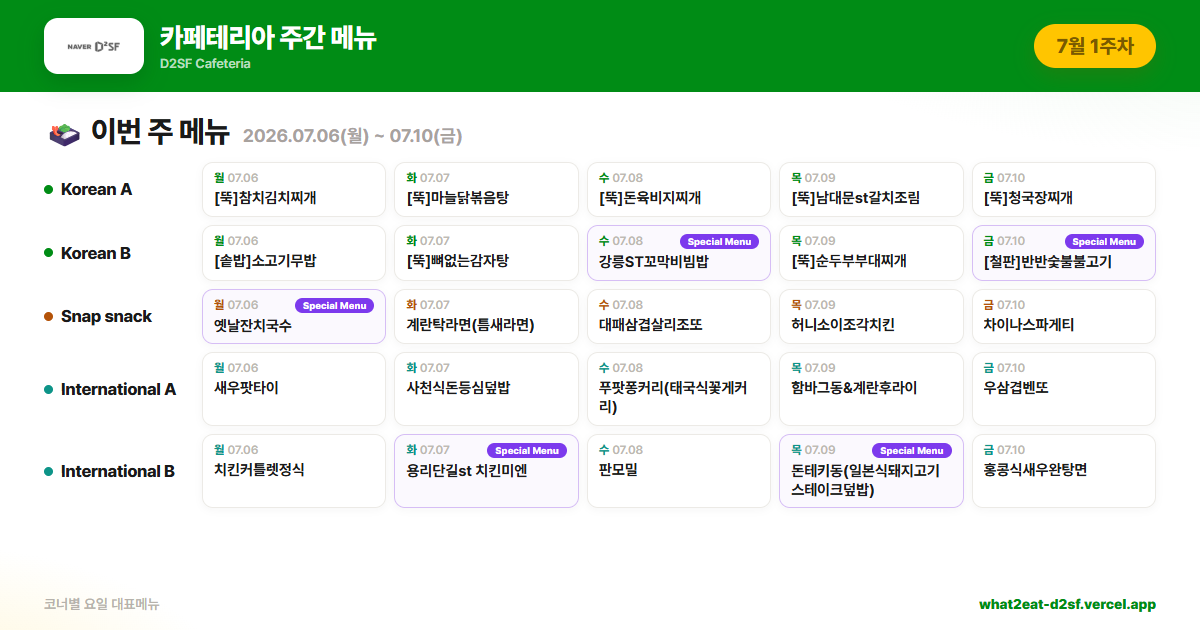
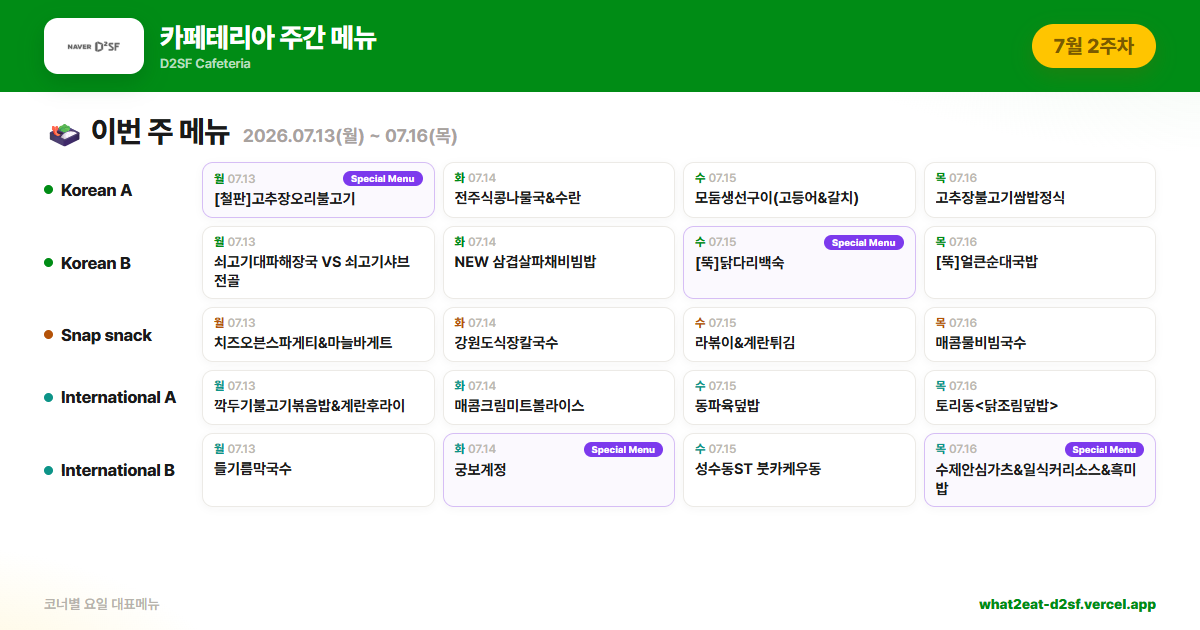
식단표 업데이트: 2026년 7월 2주차 (07.13~07.16, 금 제헌절 휴무)
- menu-2026-w7.js 추가 (화재서초 7-2 기준, 월~목 4일), index.js 등록
- generate-og.mjs: OG 그리드 열 수를 요일수에 맞춰 가변화(4일 대응)
- OG 재생성(단가 스페셜 4칸) + 제목 (7월 2주차), og:image r=8

diff --git a/src/data/menu-2026-w7.js b/src/data/menu-2026-w7.js
@@ -1,0 +1,105 @@
+// ─────────────────────────────────────────────────────────────
+// 카페테리아 주간 식단 — 2026년 7월 2주차 (2026.07.13~07.16)
+// ※ 07.17(금)은 제헌절 관계로 식단 없음(월~목 4일 운영)
+// 출처: 화재서초 게시판 식단표 / Slack D2SF #5_공유해요_지하식당
+// 칼로리(kcal)는 1인분 추정치이며 실제 제공량과 다를 수 있습니다.
+// ─────────────────────────────────────────────────────────────
+
+const S = (meal, day, corner, price, cuisine, items, tag = null, side = false) => ({
+  meal, day, corner, price, cuisine, items, tag, side,
+});
+
+const days = [
+  ["월", "07.13"],
+  ["화", "07.14"],
+  ["수", "07.15"],
+  ["목", "07.16"],
+];
+
+const sets = [
+  // ───────── 조식 ─────────
+  S("조식", "월", "백반", 9400, "한식", [["[뚝]계란물만둣국", 120], ["현미밥", 300], ["돼지고기굴소스볶음", 330], ["고사리볶음", 90], ["상추겉절이", 30], ["깍두기", 20], ["사과주스", 110]]),
+  S("조식", "화", "백반", 9400, "한식", [["[뚝]바지락해장국", 120], ["현미밥", 300], ["닭고기캐슈넛볶음", 320], ["취나물무침", 40], ["무말랭이무침", 50], ["포기김치", 15], ["양상추샐러드", 60]]),
+  S("조식", "수", "백반", 9400, "한식", [["[뚝]오징어찌개", 250], ["현미밥", 300], ["햄구이", 230], ["오이볶음", 60], ["해초채소무침", 40], ["포기김치", 15], ["포도", 60]]),
+  S("조식", "목", "백반", 9400, "한식", [["[뚝]얼큰명란찌개", 120], ["현미밥", 300], ["닭고기단호박조림", 290], ["계란후라이", 110], ["콩나물무침", 40], ["깍두기", 20], ["요거트&견과류", 160]]),
+  S("조식", "월", "라면코너", 7700, "분식", [["라면(진라면)", 500], ["단무지", 20], ["포기김치", 15], ["참치마요말이반줄", 190]]),
+  S("조식", "화", "라면코너", 7700, "분식", [["라면(오징어짬뽕)", 500], ["단무지", 20], ["포기김치", 15], ["우엉계란말이반줄", 180]]),
+  S("조식", "수", "라면코너", 7700, "분식", [["라면(참깨라면)", 500], ["단무지", 20], ["포기김치", 15], ["매콤어묵말이반줄", 190]]),
+  S("조식", "목", "라면코너", 7700, "분식", [["라면(무파마)", 500], ["단무지", 20], ["포기김치", 15], ["불고기말이반줄", 200]]),
+
+  // ───────── 중식 ─────────
+  S("중식", "월", "Korean A", 9400, "한식", [["[철판]고추장오리불고기", 420], ["차조밥", 310], ["미역국", 60], ["한식잡채", 200], ["맛살겨자냉채", 120], ["깍두기", 20]], "단가"),
+  S("중식", "화", "Korean A", 9400, "한식", [["전주식콩나물국&수란", 380], ["귀리밥", 310], ["메밀배추전&파채", 200], ["느타리버섯볶음", 70], ["유채나물", 40], ["깍두기", 20]]),
+  S("중식", "수", "Korean A", 9400, "한식", [["모둠생선구이(고등어&갈치)", 320], ["[은냉면기]곤드레나물밥&양념장", 520], ["콩나물김칫국", 80], ["호박볶음", 80], ["간장깻잎지", 30], ["깍두기", 20]], "건강"),
+  S("중식", "목", "Korean A", 9400, "한식", [["고추장불고기쌈밥정식", 520], ["어묵국", 90], ["흑미밥", 300], ["단호박전", 180], ["모둠쌈&쌈장", 40], ["포기김치", 15]]),
+
+  S("중식", "월", "Korean B", 9900, "한식", [["쇠고기대파해장국 VS 쇠고기샤브전골", 260], ["차조밥", 310], ["바싹불고기", 350], ["땅콩조림", 120], ["맛살겨자냉채", 120], ["포기김치", 15]]),
+  S("중식", "화", "Korean B", 9900, "한식", [["NEW 삼겹살파채비빔밥", 560], ["얼갈이된장국", 80], ["오징어커틀렛&타르타르", 260], ["누룽지샐러드", 120], ["유채나물", 40], ["포기김치", 15]]),
+  S("중식", "수", "Korean B", 9900, "한식", [["[뚝]닭다리백숙", 450], ["수수밥", 310], ["김치전", 180], ["도토리묵무침", 90], ["양파장아찌", 30], ["배추겉절이", 30]], "단가"),
+  S("중식", "목", "Korean B", 9900, "한식", [["[뚝]얼큰순대국밥", 380], ["흑미밥", 300], ["메추리알장조림", 130], ["멸치볶음", 90], ["청경채겉절이", 30], ["석박지", 20]]),
+
+  S("중식", "월", "Snap snack", 8800, "양식", [["치즈오븐스파게티&마늘바게트", 560], ["양송이스프", 120], ["치즈스틱", 220], ["양상추샐러드&키위D", 100], ["오이피클", 20]]),
+  S("중식", "화", "Snap snack", 8800, "분식", [["강원도식장칼국수", 450], ["추가밥", 310], ["미니메밀전병", 200], ["양상추샐러드&딸기D", 100], ["배추겉절이", 30]]),
+  S("중식", "수", "Snap snack", 8800, "분식", [["라볶이&계란튀김", 520], ["반줄말이", 180], ["순대찜", 280], ["단무지", 20], ["쥬시쿨", 80]]),
+  S("중식", "목", "Snap snack", 8800, "분식", [["매콤물비빔국수", 450], ["후리가케양념밥", 400], ["김치왕만두찜", 280], ["꼬들단무지", 20], ["백김치", 15]], "맛집"),
+
+  S("중식", "월", "International A", 9400, "양식", [["깍두기불고기볶음밥&계란후라이", 600], ["두부장국", 60], ["야채튀김", 200], ["멕시칸샐러드", 100], ["포기김치", 15]]),
+  S("중식", "화", "International A", 9400, "양식", [["매콤크림미트볼라이스", 600], ["칠리치즈프라이", 250], ["양상추샐러드&오리엔탈D", 100], ["할라피뇨", 20], ["탄산음료", 100]]),
+  S("중식", "수", "International A", 9400, "중식", [["동파육덮밥", 600], ["계란국", 70], ["지마구", 230], ["짜사이채무침", 40], ["포기김치", 15]]),
+  S("중식", "목", "International A", 9400, "일식", [["토리동<닭조림덮밥>", 620], ["미역장국", 70], ["새우볼꼬치", 250], ["양상추샐러드&포도D", 100], ["꼬들단무지", 20]]),
+
+  S("중식", "월", "International B", 9900, "분식", [["들기름막국수", 450], ["두부장국", 60], ["돼지불고기", 330], ["양상추샐러드&오리엔탈D", 100], ["냉면김치", 20]]),
+  S("중식", "화", "International B", 9900, "중식", [["궁보계정", 560], ["채소짬뽕국", 90], ["탕수육", 350], ["양상추샐러드&오리엔탈D", 100], ["단무지", 20], ["깍두기", 20]], "단가"),
+  S("중식", "수", "International B", 9900, "일식", [["성수동ST 붓카케우동", 520], ["모둠튀김(고구마&새우튀김)", 250], ["후리가케양념밥", 400], ["콘샐러드", 100], ["오복지", 30]], "맛집"),
+  S("중식", "목", "International B", 9900, "일식", [["수제안심가츠&일식커리소스&흑미밥", 650], ["미역장국", 70], ["쫄면채소무침", 120], ["산고추&락교", 30], ["깍두기", 20]], "단가"),
+
+  S("중식", "월", "추가배식대", 0, "기타", [["방울토마토", 30]], null, true),
+  S("중식", "화", "추가배식대", 0, "기타", [["순대볶음", 280]], null, true),
+  S("중식", "수", "추가배식대", 0, "기타", [["비빔채소만두", 230]], null, true),
+  S("중식", "목", "추가배식대", 0, "기타", [["고구마맛탕", 260]], null, true),
+
+  // ───────── 석식 ─────────
+  S("석식", "월", "Korean B", 9900, "한식", [["삼겹살김치찜", 450], ["잡곡밥", 310], ["얼갈이된장국", 80], ["들기름두부구이&양념장", 150], ["숙주나물", 40], ["깍두기", 20], ["요거트", 80]]),
+  S("석식", "화", "Korean B", 9900, "한식", [["소시지하이라이스", 560], ["일식장국", 60], ["고구마고로케&케찹", 230], ["양상추샐러드&드레싱", 90], ["포기김치", 15], ["아이스홍시", 90]]),
+  S("석식", "수", "Korean B", 9900, "한식", [["차돌된장찌개", 250], ["잡곡밥", 310], ["생깻잎전", 180], ["환어묵볶음", 120], ["참나물생채", 40], ["깍두기", 20], ["파인애플", 60]]),
+  S("석식", "목", "Korean B", 9900, "한식", [["마늘쫑돼지고기덮밥&계란후라이", 580], ["다시마무챗국", 30], ["에그마니카츠", 280], ["양배추샐러드&드레싱", 90], ["깍두기", 20], ["오렌지", 60]]),
+
+  S("석식", "월", "Snap snack", 8800, "분식", [["순두부라면(열라면)", 520], ["소불고기치즈말이반줄", 220], ["고구마튀김", 200], ["단무지", 20], ["포기김치", 15]]),
+  S("석식", "화", "Snap snack", 8800, "분식", [["해물라면(진짬뽕)", 520], ["참치마요말이반줄", 190], ["초코브라우니", 200], ["단무지", 20], ["포기김치", 15]]),
+  S("석식", "수", "Snap snack", 8800, "분식", [["떡라면(너구리)", 540], ["닭갈비말이반줄", 210], ["코코넛새우튀김", 250], ["단무지", 20], ["포기김치", 15]]),
+  S("석식", "목", "Snap snack", 8800, "분식", [["토핑선택라면(진라면)", 540], ["와사비크래미마요말이반줄", 200], ["치즈볼", 220], ["단무지", 20], ["포기김치", 15]]),
+
+  S("석식", "월", "웰빙가도시락", 9400, "한식", [["닭고기춘장볶음", 420], ["들기름두부구이&양념장", 150], ["고구마튀김", 200], ["숙주나물", 40], ["볶음김치", 30], ["과일", 60], ["흑미밥", 300], ["미역국", 60]]),
+  S("석식", "화", "웰빙가도시락", 9400, "한식", [["매운돼지고기사태찜", 450], ["고구마고로케&케찹", 230], ["쥐어채볶음", 120], ["초코브라우니", 200], ["볶음김치", 30], ["과일", 60], ["흑미밥", 300], ["미역국", 60]]),
+  S("석식", "수", "웰빙가도시락", 9400, "한식", [["치즈함박스테이크", 520], ["생깻잎전", 180], ["환어묵볶음", 120], ["참나물생채", 40], ["볶음김치", 30], ["과일", 60], ["흑미밥", 300], ["미역국", 60]]),
+  S("석식", "목", "웰빙가도시락", 9400, "한식", [["파채제육불고기", 450], ["에그마니카츠", 280], ["치즈볼", 220], ["단호박범벅", 150], ["볶음김치", 30], ["과일", 60], ["흑미밥", 300], ["미역국", 60]]),
+
+  // ───────── 테이크아웃 (요일별 회전) ─────────
+  S("테이크아웃", "월", "말이·컵밥", 8800, "분식", [["참치마요말이", 190], ["깐쇼칠리새우컵밥", 560]]),
+  S("테이크아웃", "화", "말이·컵밥", 8800, "분식", [["우엉계란말이", 200], ["참치마요컵밥", 540]]),
+  S("테이크아웃", "수", "말이·컵밥", 8800, "분식", [["매콤어묵말이", 190], ["명란아보카도컵밥", 560]]),
+  S("테이크아웃", "목", "말이·컵밥", 8800, "분식", [["불고기말이", 200], ["베이컨고추참치컵밥", 560]]),
+  S("테이크아웃", "월", "샌드위치", 8800, "양식", [["불고기버거샌드위치", 470], ["포테이토햄샌드위치", 450]]),
+  S("테이크아웃", "화", "샌드위치", 8800, "양식", [["햄에그블랙번샌드위치", 470], ["단호박햄치즈샌드위치", 450]]),
+  S("테이크아웃", "수", "샌드위치", 8800, "양식", [["더블치즈파니니", 480], ["스위트포테이토샌드위치", 430]]),
+  S("테이크아웃", "목", "샌드위치", 8800, "양식", [["길거리토스트", 420], ["게맛살샐러드햄샌드위치", 430]]),
+];
+
+// 테이크아웃 상시 운영 메뉴 (요일 무관): [메뉴명, 유형, kcal, 단가]
+const staticTakeout = [
+  ["바질페스토닭가슴살샐러드", "양식", 280, 8800], ["스윗에그베이컨샐러드", "양식", 320, 8800], ["코코넛쉬림프샐러드", "양식", 350, 8800],
+  ["유부초밥&데리야끼닭강정", "일식", 480, 8800], ["아보카도와사비새우샐러드", "양식", 320, 8800],
+  ["머슬랭Pack(연어&치킨)", "양식", 400, 9400], ["훈제오리포케", "양식", 380, 9400],
+  ["시리얼&우유&사이드", "양식", 350, 8800], ["요거트시리얼&사이드", "양식", 300, 8800], ["올가니카&사이드", "양식", 300, 8800],
+  ["선식&사이드", "한식", 250, 8800], ["과일팩(5종)", "기타", 120, 8800],
+  ["건강죽 택1 (닭백숙/쇠고기/전복/참치/버섯야채)", "한식", 250, 8800],
+];
+
+export const week = {
+  id: "2026-w7",
+  label: "7월 2주차",
+  range: "2026.07.13(월) ~ 07.16(목)",
+  days,
+  sets,
+  staticTakeout,
+};

diff --git a/index.html b/index.html
@@ -15,15 +15,15 @@
     <meta property="og:site_name" content="D2SF 카페테리아 주간 메뉴" />
     <meta property="og:locale" content="ko_KR" />
     <meta property="og:url" content="https://what2eat-d2sf.vercel.app/" />
-    <meta property="og:title" content="D2SF 카페테리아 — 이번 주 메뉴 (7월 1주차)" />
+    <meta property="og:title" content="D2SF 카페테리아 — 이번 주 메뉴 (7월 2주차)" />
     <meta property="og:description" content="🍴 오늘 뭐 먹지? 메뉴 검색부터 칼로리 분석까지, 점심 고민은 여기서 끝" />
-    <meta property="og:image" content="https://what2eat-d2sf.vercel.app/api/og?r=7" />
+    <meta property="og:image" content="https://what2eat-d2sf.vercel.app/api/og?r=8" />
     <meta property="og:image:width" content="1200" />
     <meta property="og:image:height" content="630" />
     <meta name="twitter:card" content="summary_large_image" />
-    <meta name="twitter:title" content="D2SF 카페테리아 — 이번 주 메뉴 (7월 1주차)" />
+    <meta name="twitter:title" content="D2SF 카페테리아 — 이번 주 메뉴 (7월 2주차)" />
     <meta name="twitter:description" content="🍴 오늘 뭐 먹지? 메뉴 검색부터 칼로리 분석까지, 점심 고민은 여기서 끝" />
-    <meta name="twitter:image" content="https://what2eat-d2sf.vercel.app/api/og?r=7" />
+    <meta name="twitter:image" content="https://what2eat-d2sf.vercel.app/api/og?r=8" />
     <!-- /OG -->
   </head>
   <body>

diff --git a/src/data/index.js b/src/data/index.js
@@ -7,6 +7,7 @@
 //   import { week as w2026w3 } from "./menu-2026-w3.js";
 //   export const weeks = [w2026w3, w2026w2];
 
+import { week as w2026w7 } from "./menu-2026-w7.js";
 import { week as w2026w6 } from "./menu-2026-w6.js";
 import { week as w2026w5 } from "./menu-2026-w5.js";
 import { week as w2026w4 } from "./menu-2026-w4.js";
@@ -14,4 +15,4 @@ import { week as w2026w3 } from "./menu-2026-w3.js";
 import { week as w2026w2 } from "./menu-2026-w2.js";
 
 // 최신 주차를 배열 맨 앞에 두세요. weeks[0] 이 기본 선택됩니다.
-export const weeks = [w2026w6, w2026w5, w2026w4, w2026w3, w2026w2];
+export const weeks = [w2026w7, w2026w6, w2026w5, w2026w4, w2026w3, w2026w2];
